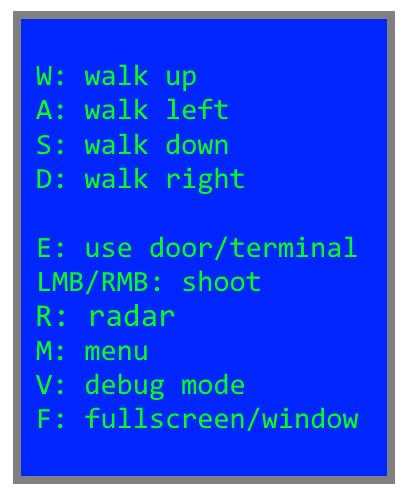
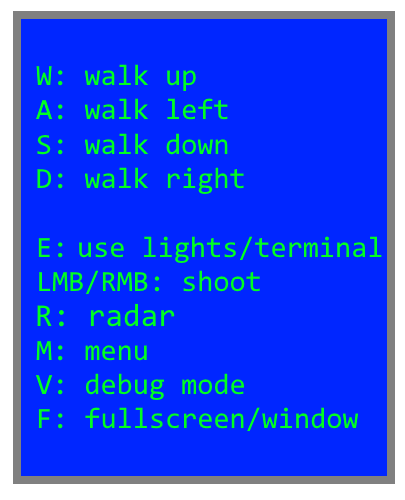
Clearer instructions.  Can now see Save Success message.

Changed region(s): [[0.3556, 0.45, 0.9481, 0.54], [0.1778, 0.48, 0.3259, 0.54]]

diff --git a/SpyGame/src/impl/HUD.java b/SpyGame/src/impl/HUD.java
@@ -418,7 +418,7 @@ public class HUD {
 				{
 					if (saveSuccess)
 					{
-						core.getTextRenderer().drawCenteredText("Save Success!", DisplayManager.DISPLAY_DEFAULT_W/2, buttonY + MENU_BUTTON_H * 1.7f, 20, 0, 0, 1, 1);
+						core.getTextRenderer().drawCenteredText("Save Success!", DisplayManager.DISPLAY_DEFAULT_W/2, buttonY + MENU_BUTTON_H * 1.7f, 20, 0, 1, 0, 1);
 					}
 					else
 					{

diff --git a/SpyGame/src/jgraphic/TextField.java b/SpyGame/src/jgraphic/TextField.java
@@ -80,10 +80,6 @@ public class TextField {
 					message = smartSubstr(message, cursorPos)+typedChar+smartSubstr(message,cursorPos,message.length());
 				}
 			}
-			if (cursorPos > message.length() - 1)
-			{
-				System.out.println("CURSOR POS EXCEEDED STRING");
-			}
 		}
 	}
 	private String smartSubstr(String str, int end)
